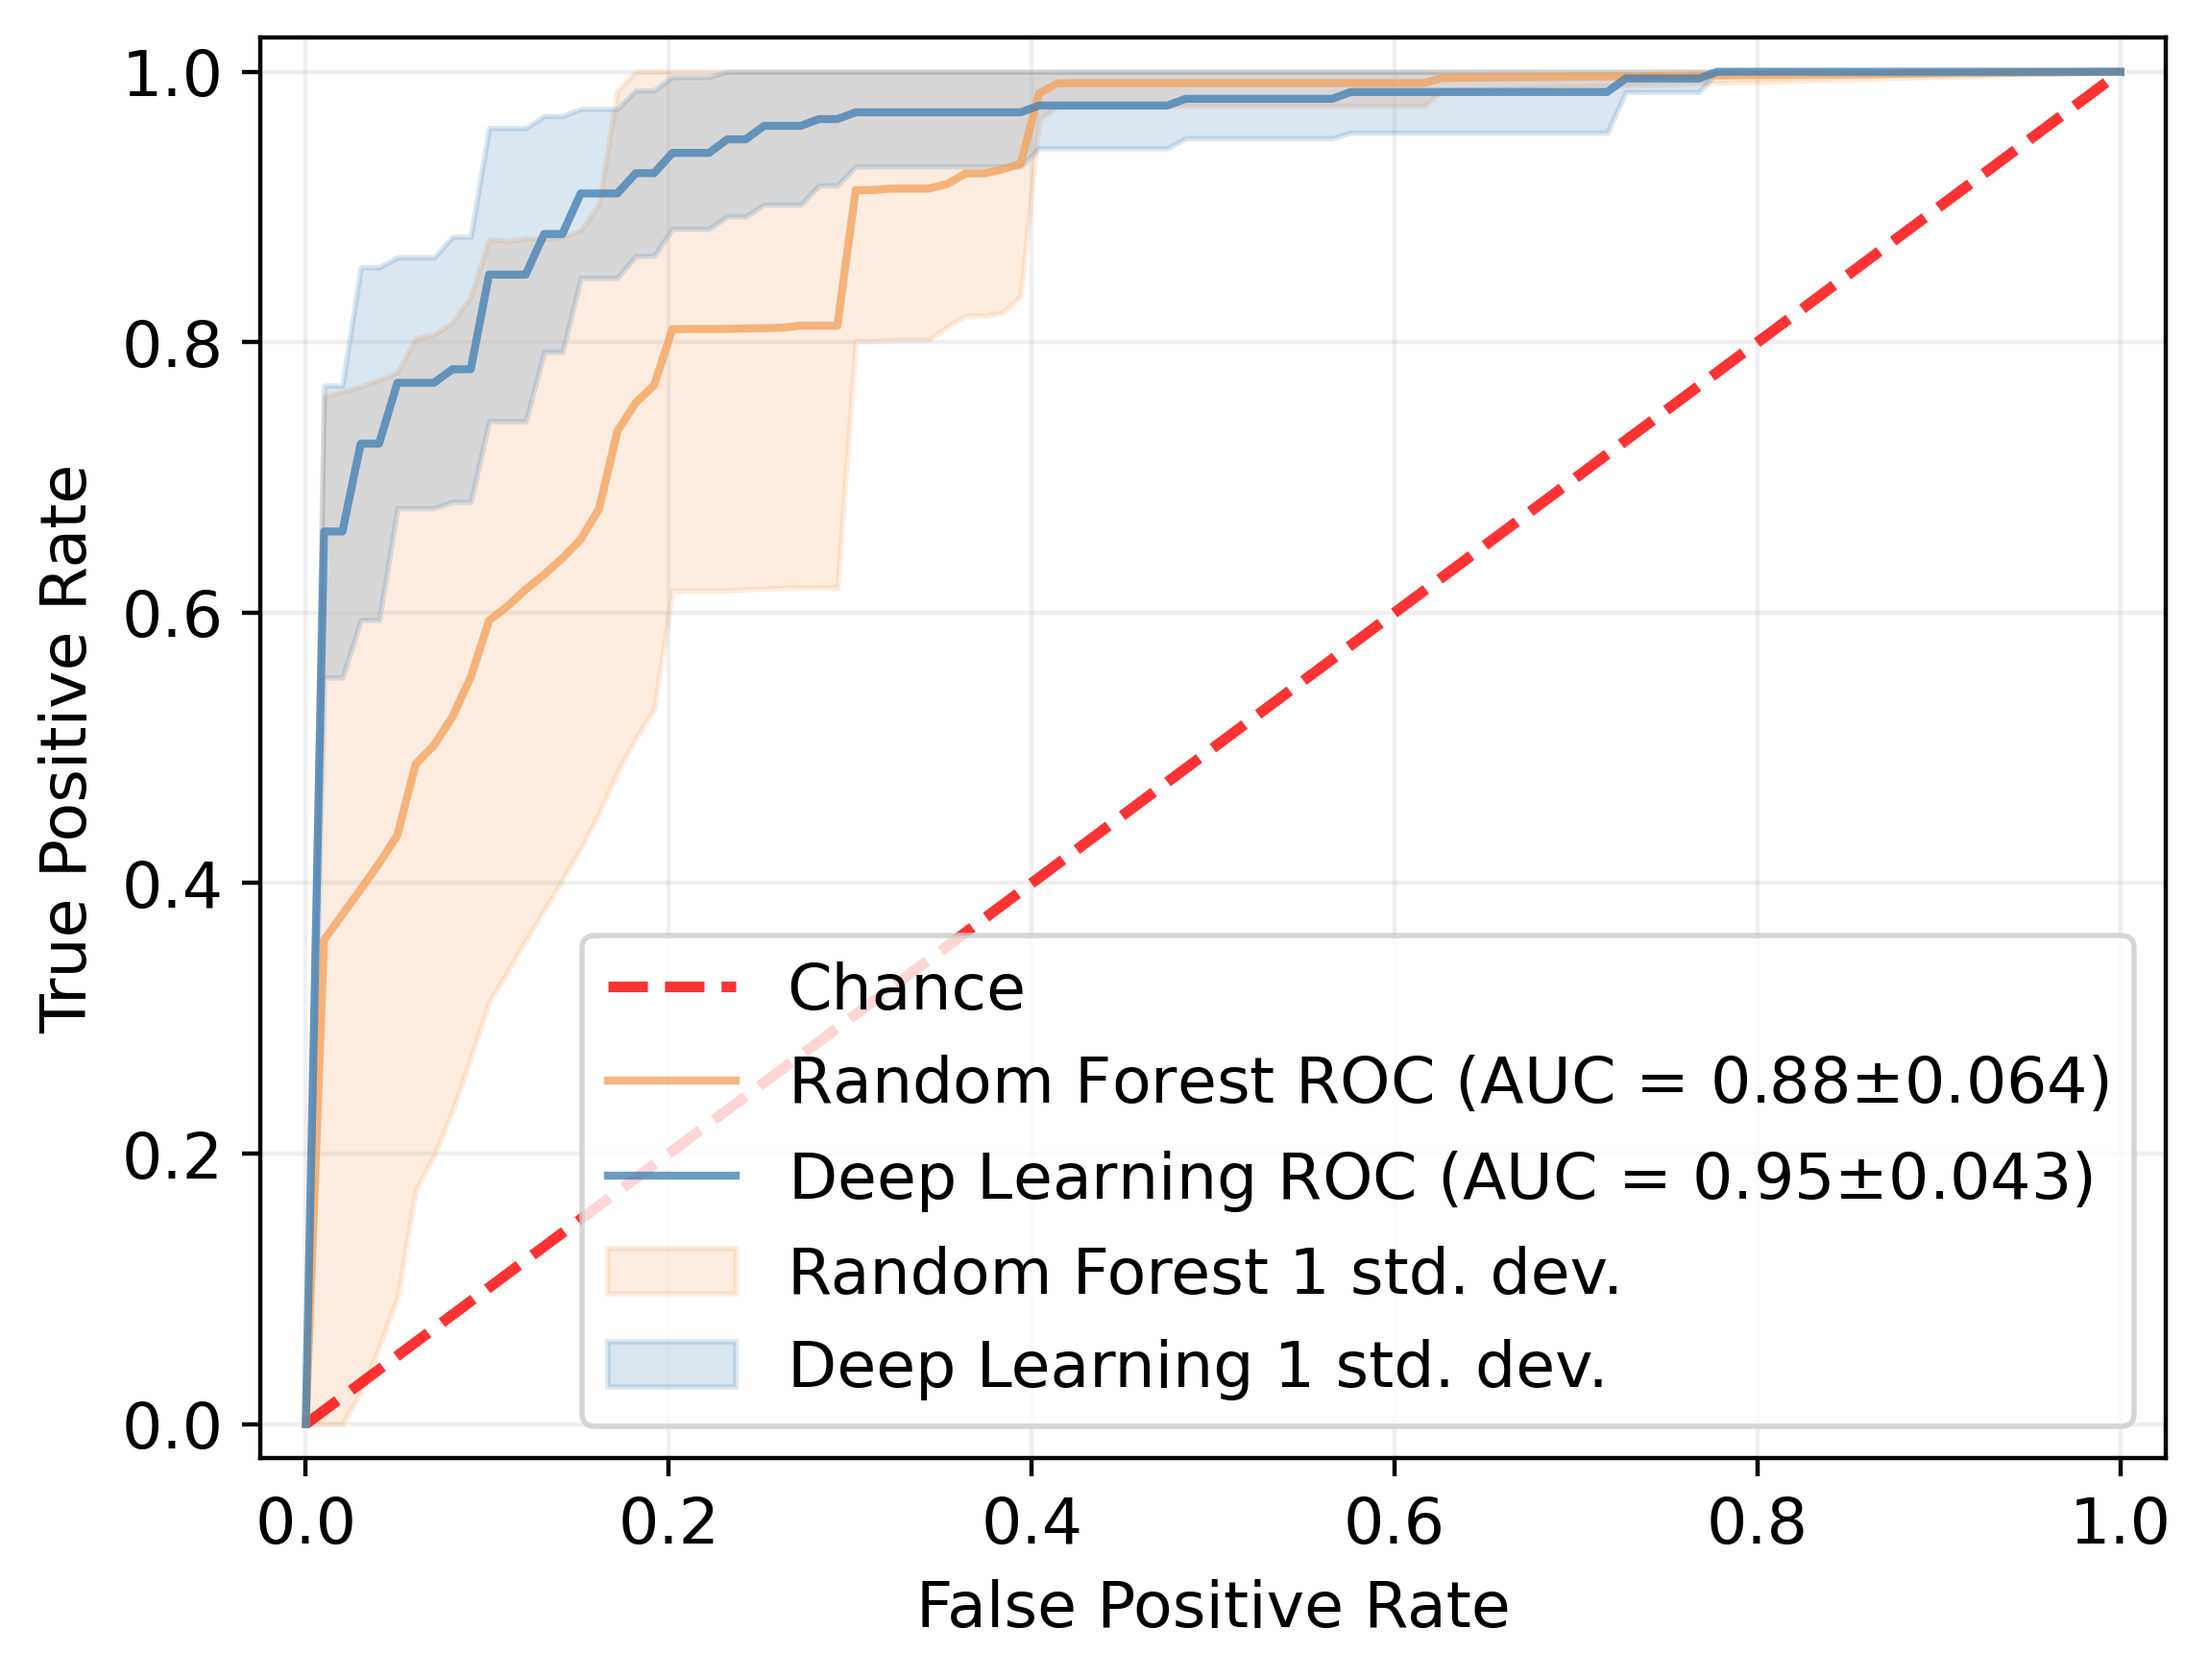
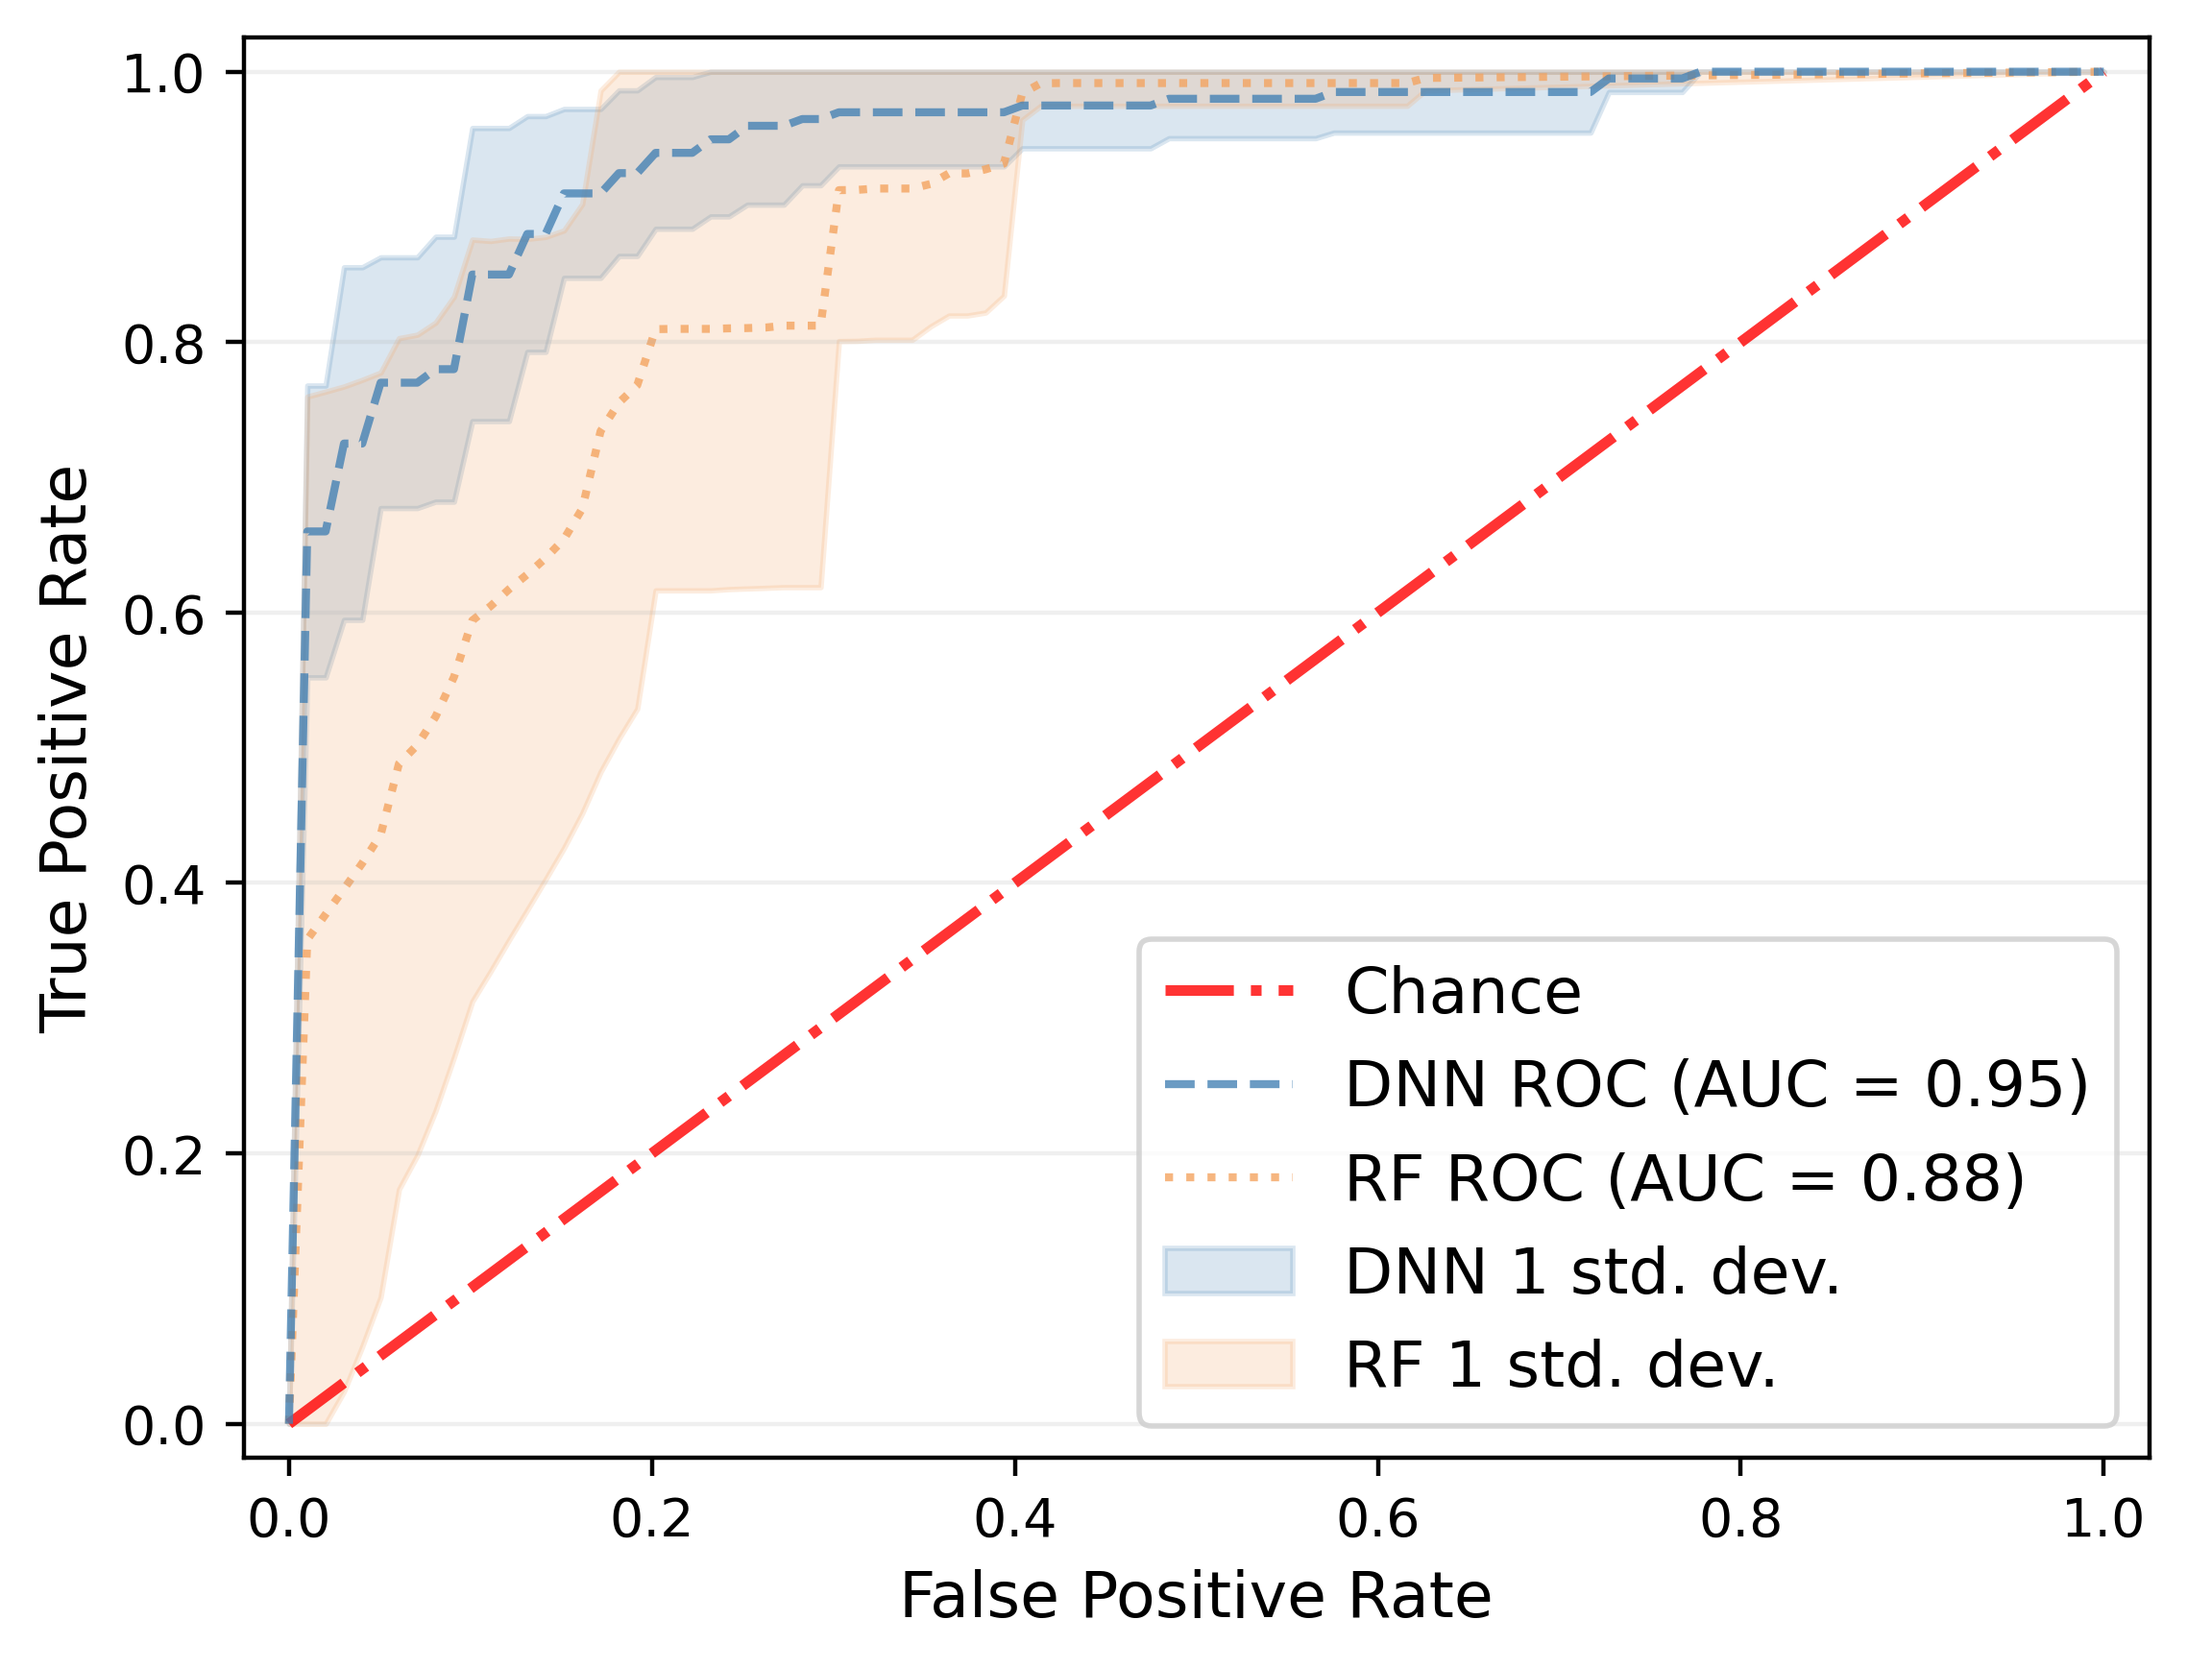
update pics

diff --git a/deepards/aim2_dl_v_rf_compr/fractional_patient_training.py b/deepards/aim2_dl_v_rf_compr/fractional_patient_training.py
@@ -11,7 +11,7 @@ from deepards.mean_metrics import confidence_score, get_metrics
 marker_size = (plt.rcParams['lines.markersize'] ** 2) * 3/2
 results_path = lambda x: os.path.join(os.path.dirname(__file__), '..', 'results', x)
 experiment_prefixes = [
-    (100, results_path("q1_cnn_linear_benchmark_unpadded_centered_sequences_cnn_linear_densenet18")),
+    (100, results_path("linear_baseline_recheck_back_on_master_after_eval_off")),
     (75, results_path("fractional_dataset_training75_")),  # 75%
     (50, results_path("fractional_dataset_training50_")),  # 50%
     (25, results_path("fractional_dataset_training25_")),  # 25%
@@ -28,42 +28,22 @@ aucs = dict()
 for tupl in experiment_prefixes:
     perc, exp = tupl
     start_times = list(set([os.path.splitext(file_.split('_')[-1])[0] for file_ in glob(exp + '*')]))
-    if len(start_times) != 10:
-        continue
 
     mean_df_stats, all_stats = get_metrics(start_times)
     stats[perc] = all_stats
 
     max_acc = 0
     max_auc = 0
-    for e, sub_df in all_stats.groupby('epoch'):
-        if sub_df.Accuracy.mean() > max_acc:
-            max_acc = sub_df.Accuracy.mean()
-        if sub_df.AUC.mean() > max_auc:
-            max_auc = sub_df.AUC.mean()
+    if perc == 100:
+        final_epoch = 10
+    else:
+        final_epoch = 9  # somehow things went from 0-9 here not 1-10
+    final = all_stats[all_stats.epoch==final_epoch]
+    max_acc = round(final.groupby('fold').Accuracy.mean().mean(), 3)
+    max_auc = round(final.groupby('fold').AUC.mean().mean(), 3)
 
-    # XXX this needs to
     accuracies[perc] = {'mean': max_acc, 'conf': confidence_score(max_acc, 100)}
     aucs[perc] = {'mean': max_auc, 'conf': confidence_score(max_auc, 100)}
-
-two_dim_prefixes = [
-    (100, "2x2d", results_path("experiment_files_unpadded_centered_nb20_cnn_linear_2d_bs2_win_warp_by_img"), 'mediumpurple', '*'),
-    (100, "2x1d", results_path("experiment_files_unpadded_centered_nb20_cnn_linear_2x1d_bs2_all_transforms"), 'lightslategray', 'p'),
-]
-
-acc_annos = []
-auc_annos = []
-for tupl in two_dim_prefixes:
-    perc, name, exp, color, style = tupl
-    start_times = list(set([os.path.splitext(file_.split('_')[-1])[0] for file_ in glob(exp + '*')]))
-
-    mean_df_stats, all_stats = get_metrics(start_times)
-    # go by best AUC
-    best_auc_epoch = all_stats.epoch.unique()[all_stats.groupby('epoch').AUC.mean().argmax()]
-    auc = all_stats[all_stats.epoch==best_auc_epoch].AUC.mean()
-    acc = all_stats[all_stats.epoch==best_auc_epoch].Accuracy.mean()
-    acc_annos.append((name, perc, acc, color, style))
-    auc_annos.append((name, perc, auc, color, style))
 
 ## ACCURACY ##
 
@@ -85,14 +65,11 @@ acc_fill_y2 = rf_results.loc['accuracy'] - acc_confidence
 rf_color = 'darkorange'
 plt.plot(x_rf, rf_results.loc['accuracy'], color=rf_color, label='Random Forest')
 plt.fill_between(x_rf, acc_fill_y1, acc_fill_y2, alpha=.2, color=rf_color)
-for name, perc, acc, color, style in acc_annos:
-    plt.scatter([perc/100 * 80], [acc], label=name, c=color, s=marker_size, marker=style)
 fig = plt.gcf()
-fig.set_size_inches(10, 6)
 
 plt.ylabel('Mean Accuracy', fontsize=12)
 plt.xlabel('N Training Patients', fontsize=12)
-plt.xticks(x_rf)
+plt.xticks(x_rf, fontsize=10)
 plt.legend()
 plt.grid(alpha=.2)
 plt.savefig('dl-rf-fractional-pt-accuracy-plt.png', dpi=400, bbox_inches='tight')
@@ -103,29 +80,28 @@ plt.close()
 matplotlib.rcParams['xtick.labelsize'] = 12
 matplotlib.rcParams['ytick.labelsize'] = 12
 
-# RF auc plot
-rf_color = 'sandybrown'
-rf_auc = rf_results.loc['auc']
-rf_conf = 1.96 * np.sqrt(rf_results.loc['auc'] * (1-rf_results.loc['auc']) / 100)
-plt.plot(x_rf, rf_auc, label='Random Forest', color=rf_color)
-plt.fill_between(x_rf, rf_auc+rf_conf, rf_auc-rf_conf, alpha=.2, color=rf_color)
-plt.xticks(x_rf)
-
-
 # deep learning auc plot
 dl_auc = np.array([aucs[k]['mean'] for k in keys])
 dl_conf = np.array([aucs[k]['conf'] for k in keys])
 dl_color = 'steelblue'
-plt.plot(x_dl, dl_auc, label='1D conv', color=dl_color)
-for name, perc, auc, color, style in auc_annos:
-    plt.scatter([perc/100 * 80], [auc], label=name, c=color, s=marker_size, marker=style)
+plt.plot(x_dl, dl_auc, label='DNN', color=dl_color, marker='D', markersize=5, linestyle='dashed', zorder=2)
 plt.fill_between(x_dl, dl_auc+dl_conf, dl_auc-dl_conf, alpha=.2, color=dl_color)
-plt.grid(alpha=.2)
+plt.grid(alpha=.2, axis='y')
 fig = plt.gcf()
-fig.set_size_inches(10, 6)
-plt.ylabel('Mean AUC', fontsize=14)
-plt.xlabel('N Training Patients', fontsize=14)
+plt.ylabel('AUC', fontsize=12)
+plt.xlabel('N Training Patients', fontsize=12)
 plt.xlim([1, 83])
+plt.ylim(.48, 1.02)
+
+# RF auc plot
+rf_color = 'sandybrown'
+rf_auc = rf_results.loc['auc']
+rf_conf = 1.96 * np.sqrt(rf_results.loc['auc'] * (1-rf_results.loc['auc']) / 100)
+plt.plot(x_rf, rf_auc, label='Random Forest', color=rf_color, marker='s', markersize=5, linestyle='dotted', zorder=1)
+plt.fill_between(x_rf, rf_auc+rf_conf, rf_auc-rf_conf, alpha=.2, color=rf_color)
+plt.xticks(x_rf, fontsize=9)
+plt.yticks(np.arange(.5, 1.01, .05), fontsize=10)
+
 plt.legend(fontsize=12, loc='lower right')
 plt.savefig('dl-rf-fractional-pt-auc-plt.png', dpi=400, bbox_inches='tight')
 plt.show()

diff --git a/deepards/aim2_dl_v_rf_compr/plot_roc_curves.py b/deepards/aim2_dl_v_rf_compr/plot_roc_curves.py
@@ -25,9 +25,9 @@ class SillyPlottingClass(object):
             raise Exception('no experiments found with id: {}'.format(dl_experiment_name))
 
         # plot chance initially because we don't want to doublt plot
-        plt.plot([0, 1], [0, 1], linestyle='--', lw=2, color='r',
+        plt.plot([0, 1], [0, 1], linestyle='dashdot', lw=2, color='r',
                  label='Chance', alpha=.8)
-        plt.grid(alpha=.2)
+        plt.grid(alpha=.2, axis='y')
 
     def plot_dl_results(self):
         df_patient_results_list = []
@@ -39,13 +39,13 @@ class SillyPlottingClass(object):
         epoch_to_auc = [(ep, roc_auc_score(frame.patho, frame.pred_frac)) for ep, frame in df.groupby('epoch_num')]
         best_epoch = sorted(epoch_to_auc, key=lambda x: x[1])[-1][0]
         df = df[df.epoch_num == best_epoch]
-        self.plot_results(df, 'steelblue', 'steelblue', 'Deep Learning')
+        self.plot_results(df, 'steelblue', 'steelblue', 'DNN', 2, 'dashed')
 
     def plot_reg_ml_results(self):
         """Convenience method"""
-        self.plot_results(self.reg_ml_results, 'sandybrown', 'sandybrown', 'Random Forest')
+        self.plot_results(self.reg_ml_results, 'sandybrown', 'sandybrown', 'RF', 1, 'dotted')
 
-    def plot_results(self, results, line_color, std_color, type_roc):
+    def plot_results(self, results, line_color, std_color, type_roc, zorder, linestyle):
         # I might be able to find confidence std using p(1-p). Nah. we actually cant do
         # this because polling is using the identity of std from a binomial distribution. So
         # in order to have conf interval we need some kind of observable std.
@@ -71,8 +71,8 @@ class SillyPlottingClass(object):
 
         auc_ci = (1.96 * np.sqrt(mean_auc * (1-mean_auc) / uniq_pts)).round(3)
         plt.plot(mean_fpr, mean_tpr, color=line_color,
-                 label=r'%s ROC (AUC = %0.2f$\pm$%0.3f)' % (type_roc, mean_auc, auc_ci),
-                 lw=1.5, alpha=.8)
+                 label=r'%s ROC (AUC = %0.2f)' % (type_roc, mean_auc),
+                 lw=1.5, alpha=.8, zorder=zorder, linestyle=linestyle)
 
         std_tpr = np.std(tprs, axis=0)
         tprs_upper = np.minimum(mean_tpr + std_tpr, 1)
@@ -94,8 +94,8 @@ def main():
     parser.add_argument('-o', '--output', default='roc-dl-ml.png')
     args = parser.parse_args()
     cls = SillyPlottingClass(args.reg_ml_results_file, args.dl_experiment_name)
-    cls.plot_reg_ml_results()
     cls.plot_dl_results()
+    cls.plot_reg_ml_results()
     plt.legend(loc="lower right", fontsize=12)
     plt.savefig(args.output, dpi=400, bbox_inches='tight')
 
